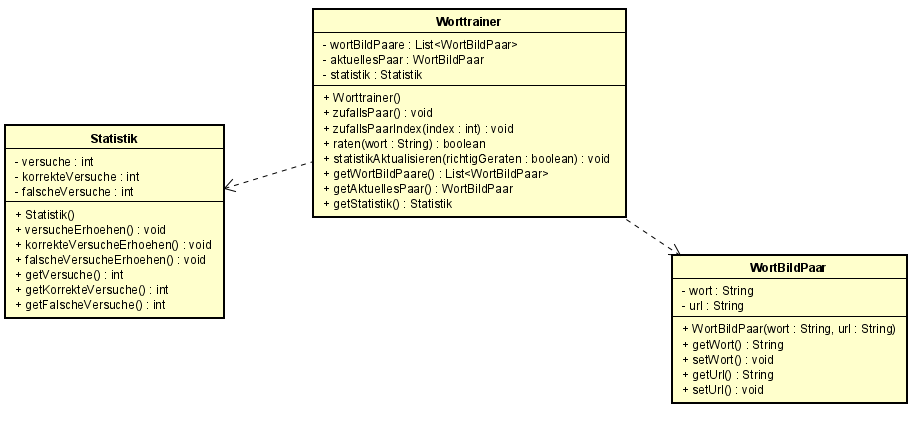
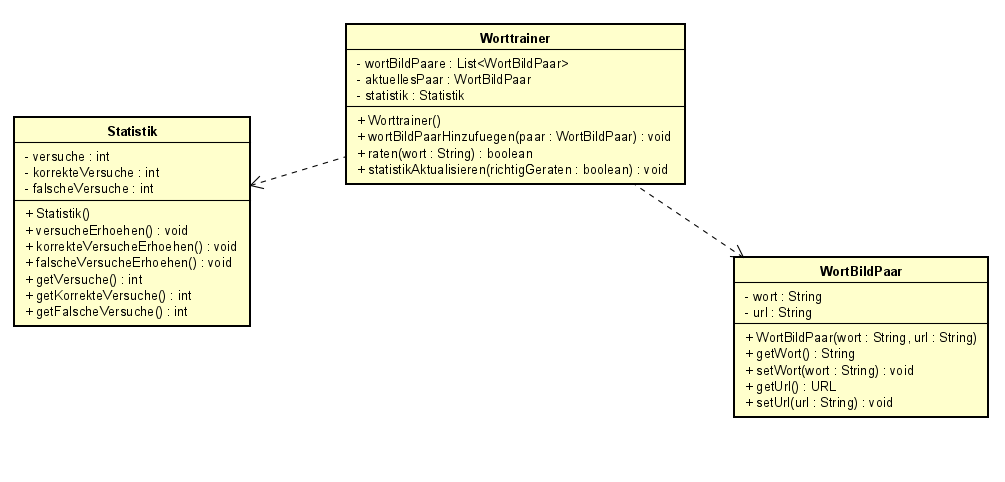
change some method types and update uml

Changed region(s): [[0.3362, 0.0, 0.7031, 0.5046], [0.0, 0.2374, 0.2751, 0.742], [0.7031, 0.5046, 1.0, 0.9201]]

diff --git a/src/main/java/at/ac/tgm/awansch/Worttrainer.java b/src/main/java/at/ac/tgm/awansch/Worttrainer.java
@@ -4,7 +4,6 @@ import javax.swing.ImageIcon;
 import javax.swing.JOptionPane;
 import java.awt.*;
 import java.net.MalformedURLException;
-import java.net.URL;
 import java.util.ArrayList;
 import java.util.List;
 import java.util.Random;
@@ -24,7 +23,7 @@ public class Worttrainer {
         wortBildPaare.add(paar);
     }
 
-    public boolean wortErraten(String vermutetesWort) {
+    public boolean raten(String vermutetesWort) {
         if (aktuellesPaar != null) {
             return aktuellesPaar.getWort().equalsIgnoreCase(vermutetesWort);
         }
@@ -40,13 +39,13 @@ public class Worttrainer {
         }*/
     }
 
-    public void start() throws MalformedURLException {
+    public void start() {
         Random random = new Random();
         aktuellesPaar = wortBildPaare.get(random.nextInt(wortBildPaare.size()));
 
         while(true) {
             if (aktuellesPaar != null) {
-                ImageIcon icon = new ImageIcon(new URL(aktuellesPaar.getUrl()));
+                ImageIcon icon = new ImageIcon(aktuellesPaar.getUrl());
 
                 Image scaledImage = icon.getImage().getScaledInstance(500, 500, Image.SCALE_SMOOTH);
                 ImageIcon scaledImageIcon = new ImageIcon(scaledImage);
@@ -62,7 +61,7 @@ public class Worttrainer {
                 );
 
                 if (geratenesWort != null && !geratenesWort.isEmpty()) {
-                    boolean istRichtig = wortErraten(geratenesWort);
+                    boolean istRichtig = raten(geratenesWort);
 
                     if (istRichtig) {
                         JOptionPane.showMessageDialog(null, "Richtig!");
@@ -79,7 +78,7 @@ public class Worttrainer {
         }
     }
 
-    public static void main(String[] args) throws MalformedURLException {
+    public static void main(String[] args) {
         // Beispiel Wort-Bild-Paare
         Worttrainer worttrainer = new Worttrainer();
         worttrainer.wortBildPaarHinzufuegen(new WortBildPaar("Hund", "https://images.gutefrage.net/media/fragen/bilder/suesser-hund-aber-welche-rasse/0_original.jpg"));

diff --git a/src/test/java/WortBildPaarTests.java b/src/test/java/WortBildPaarTests.java
@@ -9,7 +9,7 @@ public class WortBildPaarTests {
     @Test
     public void KonstruktorTest() {
         Assertions.assertEquals(w.getWort(), "Test");
-        Assertions.assertEquals(w.getUrl(), "https://images.gutefrage.net/media/fragen/bilder/suesser-hund-aber-welche-rasse/0_original.jpg");
+        Assertions.assertEquals(w.getUrl().toString(), "https://images.gutefrage.net/media/fragen/bilder/suesser-hund-aber-welche-rasse/0_original.jpg");
     }
 
     @Test
@@ -23,7 +23,7 @@ public class WortBildPaarTests {
     @Test
     public void setUrlTest() {
         w.setUrl("https://ais.badische-zeitung.de/piece/0b/5e/72/bc/190739132.jpg");
-        Assertions.assertEquals(w.getUrl(), "https://ais.badische-zeitung.de/piece/0b/5e/72/bc/190739132.jpg");
+        Assertions.assertEquals(w.getUrl().toString(), "https://ais.badische-zeitung.de/piece/0b/5e/72/bc/190739132.jpg");
 
         Assertions.assertThrows(IllegalArgumentException.class, () -> w.setUrl(""));
     }

diff --git a/src/main/java/at/ac/tgm/awansch/WortBildPaar.java b/src/main/java/at/ac/tgm/awansch/WortBildPaar.java
@@ -5,7 +5,7 @@ import java.net.URL;
 
 public class WortBildPaar {
     private String wort;
-    private String url;
+    private URL url;
 
     public WortBildPaar(String wort, String url) {
         setWort(wort);
@@ -24,14 +24,13 @@ public class WortBildPaar {
         }
     }
 
-    public String getUrl() {
+    public URL getUrl() {
         return url;
     }
 
     public void setUrl(String url) {
         try {
-            new URL(url);
-            this.url = url;
+            this.url = new URL(url);
         } catch (MalformedURLException e) {
             throw new IllegalArgumentException(e);
         }
